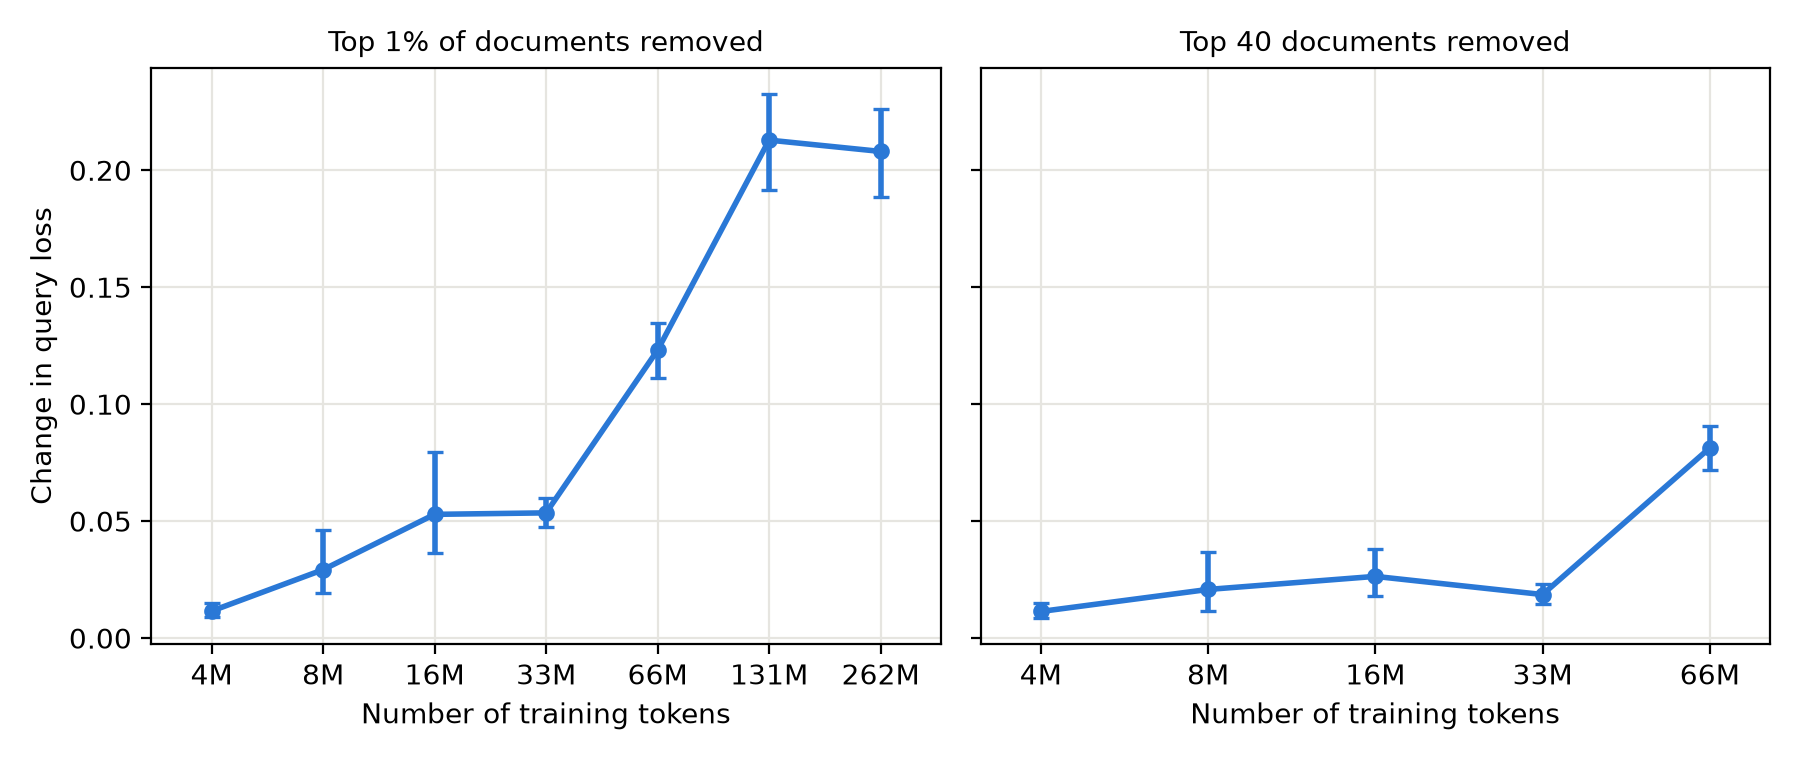
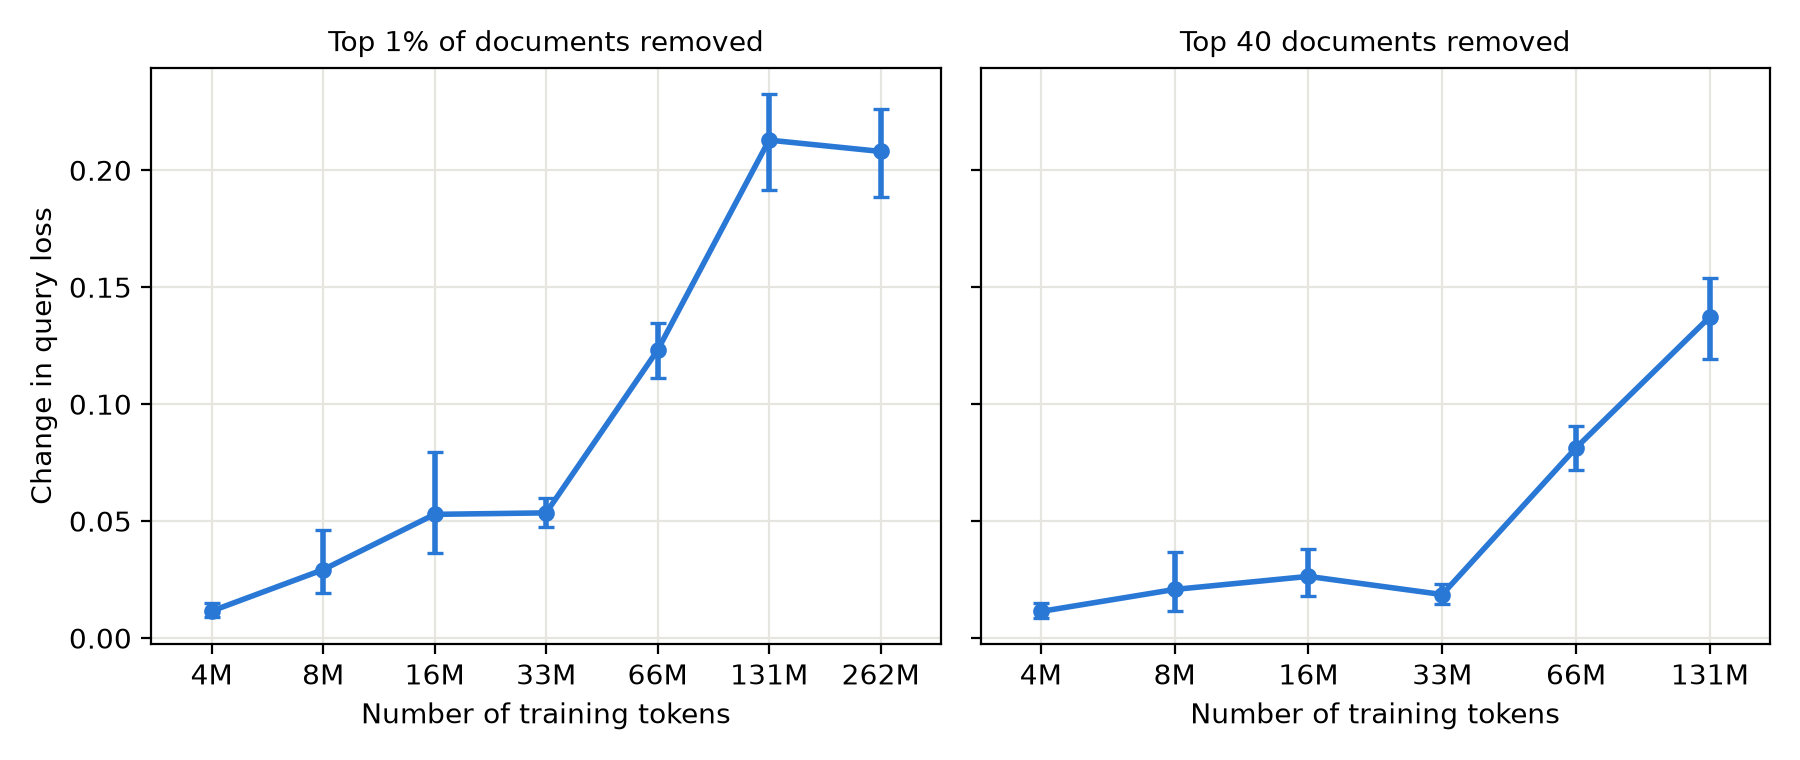
Top-40 at 128k: the final point on that curve
The tenth shard had finished its retrains and simply never wrote a summary --
the same recoverable state the muon 128k shards were in -- so this cost no GPU
time, only recover_shard_summary.py and a merge.

    top-40   4k 0.01137   8k 0.0207   16k 0.0264   32k 0.0180   64k 0.08129
             128k 0.1376  <-- new

Unlike the 1% curve, which is flat from 128k to 256k, the fixed-40 curve is still
climbing at 128k and steeply: 0.081 -> 0.138 over one doubling. The two panels now
disagree about what happens at the top of the range, which is worth understanding
before either is used to argue anything. A fixed 40 documents is a shrinking
FRACTION as N grows, so the two are not measuring the same intervention, and only
the 1% curve holds the intervention constant.

Also: fix_shard_ckpts.py takes an explicit --traj path. It assumed the trajectory
lived at <row>/<cfg-name>/checkpoints, which is wrong for a config whose run_path
is the row root -- the 128k MAGIC scoring keeps its checkpoints at <row>/checkpoints.

diff --git a/scripts/fix_shard_ckpts.py b/scripts/fix_shard_ckpts.py
@@ -19,7 +19,15 @@ import sys
 from pathlib import Path
 
 ROOT = Path("/mnt/ssd-2/lucia/paper_runs/experiments") / sys.argv[1]
-main_ckpts = ROOT / sys.argv[2] / "checkpoints"
+# The trajectory lives under the main run's run_path, which is NOT always
+# <row>/<cfg-name>: a config whose run_path is the row root keeps its checkpoints
+# at <row>/checkpoints. Accept an explicit path rather than assuming the layout.
+if "--traj" in sys.argv:
+    main_ckpts = Path(sys.argv[sys.argv.index("--traj") + 1])
+    sys.argv = [a for i, a in enumerate(sys.argv)
+                if i not in (sys.argv.index("--traj"), sys.argv.index("--traj") + 1)]
+else:
+    main_ckpts = ROOT / sys.argv[2] / "checkpoints"
 if not main_ckpts.is_dir():
     sys.exit(f"no trajectory at {main_ckpts}")
 entries = sorted(p for p in main_ckpts.iterdir() if p.name != "per_query")

diff --git a/scripts/scaling_plot_mpl.py b/scripts/scaling_plot_mpl.py
@@ -37,7 +37,8 @@ TOP40_ROWS = [(4000, "plan_adam_eps1e17_4k_bs256"),
               (8000, "plan_adam_eps1e17_8k_bs256"),
               (16000, "sm_adamw_eps1e17_16k_bs256"),
               (32000, "plan_adam_eps1e17_32k_bs256"),
-              (64000, "plan_adam_eps1e17_64k_bs256")]
+              (64000, "plan_adam_eps1e17_64k_bs256"),
+              (128000, "plan_adam_eps1e17_128k_bs256")]
 VARIANT_ROWS = [("Baseline (bs 256)", "sm_adamw_eps1e17_16k_bs256"),
                 ("Weight decay 0.0", "plan_adam_eps1e17_16k_wd0.0"),
                 ("Weight decay 0.1", "plan_adam_eps1e17_16k_wd0.1"),
